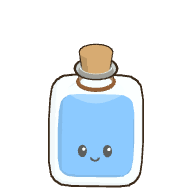
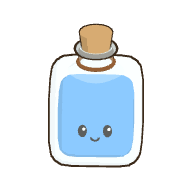
Ferme : volume par defaut regle sur celui de Mathieu, la pause coupe le son, la simu VSA attend l'accord du joueur (fenetre qui fige le jeu), fioles de pot centrees

diff --git a/site/ferme/index.html b/site/ferme/index.html
@@ -115,6 +115,7 @@ button.stock { cursor: pointer; } .stock[hidden] { display: none; } .stock img {
 /* l'ecran de pause (12/10/2026) */
 .ecran-pause { position: fixed; inset: 0; z-index: 30; display: grid; place-items: center; pointer-events: auto; /* (il est dans le HUD, qui laisse passer les clics : sans ca, Reprendre ne repondait pas, retour de Mathieu le 12/10/2026) */ background: rgba(28, 38, 52, .42); backdrop-filter: blur(3px); -webkit-backdrop-filter: blur(3px); }
 .ecran-pause[hidden] { display: none; }
+.simu-pop { z-index: 31; background: rgba(110, 24, 18, .42); } .simu-pop h2 { color: var(--rouge); } .simu-ico { width: 76px; height: 76px; object-fit: contain; display: block; margin: 0 auto; } /* (la simu VSA qui attend ton accord) */
 .carte-pause { text-align: center; background: var(--papier); border: 4px solid var(--bord); border-radius: 22px; box-shadow: 0 7px 0 var(--bord); padding: 18px 28px 20px; width: min(340px, calc(100% - 32px)); }
 .carte-pause svg { width: 44px; height: 44px; color: var(--bord); } .carte-pause h2 { font: 400 1.9rem/1 var(--f-titre); margin: 6px 0 8px; } .carte-pause p { font-weight: 600; font-size: .9rem; line-height: 1.35; margin: 0 0 16px; }
 .bulle { position: absolute; transform: translate(-50%, -100%); white-space: nowrap; background: var(--papier); border: 3px solid var(--bord); border-radius: 12px; padding: 3px 9px; box-shadow: 0 3px 0 var(--bord); font-size: .78rem; pointer-events: none; }
@@ -760,6 +761,7 @@ svg.pc { width: 1.15em; height: 1.15em; vertical-align: -.22em; fill: currentCol
   <div id="bulles"></div>
   <div class="info-survol" id="info-survol" hidden></div>
   <div class="ecran-pause" id="ecran-pause" hidden><div class="carte-pause"><svg viewBox="0 0 24 24" aria-hidden="true"><rect x="5.5" y="4.5" width="4.5" height="15" rx="1.4" fill="currentColor"/><rect x="14" y="4.5" width="4.5" height="15" rx="1.4" fill="currentColor"/></svg><h2>Pause</h2><p>Rien n'attaque : monstres, voleurs et simus VSA t'attendent. Ta ferme, elle, continue de pousser, doucement.</p><button class="btn kamas grand" id="b-reprendre">Reprendre</button></div></div>
+  <div class="ecran-pause simu-pop" id="simu-pop" hidden><div class="carte-pause"><img class="simu-ico" src="assets/icones/voleur.png" alt=""><h2>Simu VSA !</h2><p id="simu-txt"></p><button class="btn kamas grand" id="b-simu">Défendre la ferme</button></div></div>
   <div id="bats-pv"></div>
 </div>
 <div class="accueil" id="accueil"><div class="carte" id="accueil-carte"></div></div>
@@ -3316,7 +3318,7 @@ function majEpouvantail(dt, s) {
 /* ---- le moteur (scratchpad/sons/moteur.js, la page d'ecoute), enferme dans SON ---- */
 const SON = (() => {
 let ac = null, maitre = null, busSons = null, busMusique = null, BRUIT = null, REVERB = null;
-const BASE_SONS = 0.42, BASE_MUSIQUE = 0.07; /* (les volumes de depart, a 50 % et 35 % des curseurs : doux pour qui arrive sans rien regler) */
+const BASE_SONS = 0.037, BASE_MUSIQUE = 0.0194; /* (le volume de depart, au milieu des curseurs : le reglage de Mathieu du 13/10/2026, « je l'ai regle comme sur mon screen, mets-le comme ca par defaut » ; mesure sur sa capture, environ 9 % puis 28 % des anciens niveaux de depart) */
 function init(ctx) {
   if (ac === ctx) return; ac = ctx; maitre = ac.createGain(); maitre.gain.value = 1;
   const comp = ac.createDynamicsCompressor(); comp.threshold.value = -12; comp.knee.value = 8; comp.ratio.value = 4; comp.attack.value = 0.003; comp.release.value = 0.2;
@@ -3328,7 +3330,7 @@ function init(ctx) {
   for (let c = 0; c < 2; c++) { const x = ir.getChannelData(c); for (let i = 0; i < m; i++) x[i] = (Math.random() * 2 - 1) * Math.pow(1 - i / m, 2.6); }
   REVERB = ac.createConvolver(); REVERB.buffer = ir; const retour = ac.createGain(); retour.gain.value = 0.35; REVERB.connect(retour); retour.connect(busMusique);
 }
-function volumes(vs, vm) { if (!ac) return; busSons.gain.setTargetAtTime(BASE_SONS * vs / 50, ac.currentTime, 0.05); busMusique.gain.setTargetAtTime(BASE_MUSIQUE * vm / 35, ac.currentTime, 0.05); }
+function volumes(vs, vm) { if (!ac) return; busSons.gain.setTargetAtTime(BASE_SONS * Math.pow(vs / 50, 3), ac.currentTime, 0.05); busMusique.gain.setTargetAtTime(BASE_MUSIQUE * Math.pow(vm / 50, 3), ac.currentTime, 0.05); } /* (en cube : le curseur est fin vers le bas, et va jusqu'a 8 fois plus fort a 100 %) */
 /* ---------- les briques ---------- */
 const G = (v, dest) => { const g = ac.createGain(); g.gain.value = v; if (dest) g.connect(dest); return g; };
 const F = (type, f, q, dest) => { const b = ac.createBiquadFilter(); b.type = type; b.frequency.value = f; if (q != null) b.Q.value = q; if (dest) b.connect(dest); return b; };
@@ -3573,7 +3575,7 @@ let audio = null;
 const lireReglage = (k, d) => { try { const v = localStorage.getItem(k); return v == null ? d : v; } catch (e) { return d; } };
 const ecrireReglage = (k, v) => { try { localStorage.setItem(k, String(v)); } catch (e) { /* rien */ } };
 const sonActif = () => lireReglage('ferme-son', 'oui') !== 'non';
-const volSons = () => borne(+lireReglage('ferme-vol-sons', 50) || 0, 0, 100), volMusique = () => borne(+lireReglage('ferme-vol-musique', 35) || 0, 0, 100), musiqueChoisie = () => lireReglage('ferme-musique', 'pre');
+const volSons = () => borne(+lireReglage('ferme-vol-sons2', 50) || 0, 0, 100), volMusique = () => borne(+lireReglage('ferme-vol-musique2', 50) || 0, 0, 100), /* (cles neuves : les anciens reglages ne valent plus avec la nouvelle echelle) */ musiqueChoisie = () => lireReglage('ferme-musique', 'pre');
 const MUSIQUES_JEU = [['pre', 'Matin au pré', 'Guitare pincée et nappe lointaine'], ['boite', 'La boîte à musique', 'Une berceuse à trois temps'], ['lofi', 'Le lofi d\'Incarnam', 'Piano électrique, balais et vinyle'], ['brise', 'Brise de la ferme', 'Le vent et les oiseaux, sans musique'], ['aucune', 'Pas de musique', 'Seulement les sons']];
 function allumerAudio() { if (window.silence) return false; try { if (!audio) audio = new (window.AudioContext || window.webkitAudioContext)(); SON.init(audio); SON.volumes(volSons(), volMusique()); return true; } catch (e) { return false; } }
 function majMusique() { /* la musique choisie, si le son est actif (jamais avant le premier geste du joueur : les navigateurs l'interdisent) */
@@ -3581,15 +3583,16 @@ function majMusique() { /* la musique choisie, si le son est actif (jamais avant
   if (!sonActif() || m === 'aucune' || !SON.SONS) { SON.arreter(); return; }
   if (SON.enCours() !== m) SON.musique(m);
 }
+const pauseEcran = () => enPause && !$('ecran-pause').hidden; /* (« quand on met pause, ca coupe la musique etc », Mathieu, 13/10/2026 : l'ecran de pause, pas les lecons de Pepito) */
 function deverrouillerSon() { /* au premier geste (et apres une interruption), on allume le son avec un son vide : c'est ce qu'exigent iPad et Android ; puis la musique */
-  try { if (!allumerAudio()) return; if (audio.state !== 'running') { audio.resume(); const b = audio.createBuffer(1, 1, 22050), src = audio.createBufferSource(); src.buffer = b; src.connect(audio.destination); src.start(0); } majMusique(); } catch (e) { /* rien */ }
+  try { if (pauseEcran() || !allumerAudio()) return; if (audio.state !== 'running') { audio.resume(); const b = audio.createBuffer(1, 1, 22050), src = audio.createBufferSource(); src.buffer = b; src.connect(audio.destination); src.start(0); } majMusique(); } catch (e) { /* rien */ }
 }
 ['pointerdown', 'touchend', 'keydown'].forEach((t) => addEventListener(t, deverrouillerSon, { capture: true, passive: true }));
-document.addEventListener('input', (e) => { const id = e.target && e.target.id; if (id !== 'vol-sons' && id !== 'vol-musique') return; ecrireReglage(id === 'vol-sons' ? 'ferme-vol-sons' : 'ferme-vol-musique', e.target.value); if (allumerAudio()) SON.volumes(volSons(), volMusique()); });
+document.addEventListener('input', (e) => { const id = e.target && e.target.id; if (id !== 'vol-sons' && id !== 'vol-musique') return; ecrireReglage(id === 'vol-sons' ? 'ferme-vol-sons2' : 'ferme-vol-musique2', e.target.value); if (allumerAudio()) SON.volumes(volSons(), volMusique()); });
 document.addEventListener('change', (e) => { if (e.target && e.target.id === 'vol-sons') { son.der = {}; son('kamas'); } }); /* (un son pour entendre le nouveau volume) */
-document.addEventListener('visibilitychange', () => { if (!audio) return; try { if (document.hidden) audio.suspend(); else if (sonActif()) audio.resume(); } catch (e) { /* rien */ } });
+document.addEventListener('visibilitychange', () => { if (!audio) return; try { if (document.hidden) audio.suspend(); else if (sonActif() && !pauseEcran()) audio.resume(); } catch (e) { /* rien */ } });
 function son(nom, variante, db) {
-  if (window.silence || !sonActif()) return;
+  if (window.silence || !sonActif() || pauseEcran()) return;
   const t = performance.now(); son.der = son.der || {}; if (t - (son.der[nom] || 0) < 120) return; son.der[nom] = t; /* jamais le meme son en rafale */
   if (!allumerAudio()) return; if (audio.state === 'suspended') audio.resume(); SON.jouer(nom, variante, db);
 }
@@ -3805,7 +3808,7 @@ function ouvrirPots() {
   const tete = '<div class="vie-alerte' + (pc < 40 ? ' bas' : '') + '"><div><b>' + (plein ? 'Ta vie est pleine' : 'Ta vie : ' + pc + ' %') + '</b><div class="pvb"><i style="width:' + pc + '%"></i></div><small>' + Math.floor(pv) + ' / ' + max + ' PV. ' + seule + (S_.menthe ? ' La Menthe est bue : elle te soignera pendant la prochaine vague.' : '') + (S_.citron ? ' Le Citron est bu : tu courras plus vite pendant la prochaine vague.' : '') + '</small></div></div>';
   const types = POTS_HDV.concat(Object.keys(POTS).filter((t) => POTS[t].geliere && ((S_.pots[t] || 0) > 0 || niv('geliere'))));
   const lignes = types.map((t) => { const n = S_.pots[t] || 0, non = (plein && !POTS[t].menthe && !POTS[t].citron) || (POTS[t].menthe && S_.menthe) || (POTS[t].citron && S_.citron);
-    return '<div class="art' + (n ? '' : ' pas-eu') + '">' + ico('pot-' + t) + '<div><b>' + POTS[t].nom + ' ×' + n + '</b><div class="puces"><span class="puce bonne">' + POTS[t].effet + '</span></div><div class="desc">' + POTS[t].desc + '</div></div><div class="act">' +
+    return '<div class="art' + (n ? '' : ' pas-eu') + '">' + ico('pot-' + t) + '<div><b>' + POTS[t].nom + ' ×' + n + '</b><div class="puces"><span class="puce bonne">' + BREF_POT[t] + '</span></div><div class="desc">' + POTS[t].desc + '</div></div><div class="act">' +
       (n ? '<button class="btn kamas" data-boire="' + t + '"' + (non ? ' disabled' : '') + '>Boire</button>' : POTS[t].geliere ? '<button class="btn discret" data-geliere>Gelière</button>' : '<button class="btn discret" data-hdv-cat="gelees">Acheter</button>') + '</div></div>'; }).join('');
   ouvrirModale('pots', entete('Pots de gelée') + tete + lignes + '<div style="display:flex;justify-content:flex-end;gap:8px;flex-wrap:wrap;margin-top:10px">' + (niv('geliere') ? '<button class="btn discret" data-geliere>Ta Gelière</button>' : '') + '<button class="btn kamas" data-hdv-cat="gelees">Acheter des pots à l\'HDV</button></div>');
 }
@@ -3939,9 +3942,22 @@ const CADENCE_RAID = 480 * MIN, ANNONCE_RAID = 30000; /* un raid toutes les 8 h 
 let derniereAction = Date.now(); ['pointerdown', 'keydown', 'wheel', 'touchstart'].forEach((ev) => addEventListener(ev, () => { derniereAction = Date.now(); }, { passive: true }));
 const joueurPresent = () => Date.now() - derniereAction < 180000 && !document.hidden && !auCasino; /* au Casino : pas de raid */
 let raidAnnonce = null;
-function annoncerRaid() {
+const tailleSimu = () => { const f = forceVoleur(), nb = 4 + Math.floor(Math.min(f, 40) / 5) + (f >= 25 ? 1 : 0) + (f >= 40 ? 1 : 0), montes = f >= 2 ? Math.min(Math.ceil(nb / 2), 1 + Math.floor((f - 2) / 5)) : 0; return { f, nb, montes }; }; /* plus VSA se renforce, plus ils sont nombreux (14 au plus) et montes (la moitie au plus) ; « les raids VSA, ameliore un peu » (Mathieu, 12/10/2026) : en fin de partie l'arbalete et les tours les arretaient presque tous, ils se renforcent a partir de la vague 26 */
+/* LA SIMU VSA ACCEPTEE (13/10/2026, idee de Moonsbir, approuvee par UnMortVivant, notee par Mathieu : « mets juste un pop-up qui te bloque le jeu tant que tu
+   as pas accepte, et faut l'accepter pour declencher l'attaque ») : la simu ne tombe plus d'elle-meme ; le jeu se fige sur une fenetre, et c'est le joueur qui
+   lance les 30 s de preparation. Il ne se fait jamais piller sans le savoir (et toujours rien s'il n'a pas touche au jeu depuis 3 min). */
+let simuEnAttente = false;
+function proposerSimu() {
+  if (simuEnAttente || raidAnnonce || combat || enAccueil || enPause) return;
+  const { nb, montes } = tailleSimu(); simuEnAttente = true;
+  $('simu-txt').textContent = nb + ' voleurs de VSA' + (montes ? ', dont ' + montes + ' à dos de Dragodinde,' : '') + ' veulent piller ta grange. Le jeu attend ton accord : quand tu acceptes, ils arrivent 30 s plus tard. Recharge ton arbalète !';
+  if (visee) annulerVisee(); fermerModale(); mettrePause(true, true); $('simu-pop').hidden = false; son.der = {}; son('raid');
+}
+function accepterSimu() { if (!simuEnAttente) return; simuEnAttente = false; $('simu-pop').hidden = true; mettrePause(false); annoncerRaid(true); }
+function annoncerRaid(muet) {
   if (raidAnnonce || combat || enAccueil) return;
-  const f = forceVoleur(), nb = 4 + Math.floor(Math.min(f, 40) / 5) + (f >= 25 ? 1 : 0) + (f >= 40 ? 1 : 0), montes = f >= 2 ? Math.min(Math.ceil(nb / 2), 1 + Math.floor((f - 2) / 5)) : 0; /* plus VSA se renforce, plus ils sont nombreux (14 au plus) et montes (la moitie au plus) ; « les raids VSA, ameliore un peu » (Mathieu, 12/10/2026) : en fin de partie l'arbalete et les tours les arretaient presque tous, ils se renforcent a partir de la vague 26 */
+  const { f, nb, montes } = tailleSimu();
+  /* (la taille : tailleSimu, plus haut) */
   const B = bordsFerme(), cotes = [[1, 0], [-1, 0], [0, 1], [0, -1]].filter(([di, dj]) => B.some((b) => b.di === di && b.dj === dj)), cote = hasard(cotes.length ? cotes : [[0, 1]]);
   const autres = cotes.filter((c) => c !== cote), cote2 = f >= 8 && autres.length ? hasard(autres) : null; /* a partir de la vague 9 : par deux bords a la fois */
   const marques = new T.Group(); /* le bord par ou ils arriveront, en rouge */
@@ -3951,7 +3967,7 @@ function annoncerRaid() {
     const r = new T.Mesh(new T.PlaneGeometry(S - 0.15, S - 0.15), new T.MeshBasicMaterial({ color: '#d9443a', transparent: true, opacity: 0.4, depthWrite: false })); r.rotation.x = -Math.PI / 2; r.position.set(q.x, q.y + 0.08, q.z); r.renderOrder = 3; marques.add(r);
     const l = new T.Mesh(new T.PlaneGeometry(b.di ? 0.3 : S - 0.15, b.dj ? 0.3 : S - 0.15), new T.MeshBasicMaterial({ color: '#a8231b', transparent: true, opacity: 0.6, depthWrite: false })); l.rotation.x = -Math.PI / 2; l.position.set(q.x + b.di * (S / 2 - 0.23), q.y + 0.09, q.z + b.dj * (S / 2 - 0.23)); l.renderOrder = 3; marques.add(l); });
   scene.add(marques);
-  raidAnnonce = { fin: Date.now() + ANNONCE_RAID, nb, montes, cote, cote2, marques }; son('raid');
+  raidAnnonce = { fin: Date.now() + ANNONCE_RAID, nb, montes, cote, cote2, marques }; if (!muet) son('raid');
   toast('Simu VSA dans 30 s : ' + nb + ' voleurs' + (montes ? ', dont ' + montes + ' à dos de Dragodinde' : '') + ' ! Ils arriveront par ' + (cote2 ? 'les deux bords marqués' : 'le bord marqué') + ' en rouge.', 'alerte');
   majRaidAnnonce();
 }
@@ -6184,7 +6200,7 @@ function tick() {
   if (ch.enclos) rendreEnclosBulles();
   if (ch.sauvage) rendreSauvage();
   if (ch.voleur) lancerVoleur();
-  if (ch.raid && !combat) annoncerRaid();
+  if (ch.raid && !combat) proposerSimu(); /* (une fenetre d'abord : la simu attend l'accord du joueur) */
   if (rechargerSeule()) { rendreGrange(); if (modaleOuverte === 'grange') ouvrirGrange(); } /* l'arbalete se recharge seule a partir du niveau 3 */
   if (raidAnnonce) { if (Date.now() >= raidAnnonce.fin) { if (combat) raidAnnonce.fin = Date.now() + 10000; else lancerRaid(); } else majRaidAnnonce(); }
   if (ch.hdv) { rendreGrange(); if (modaleOuverte === 'hdv') ouvrirHdv(); }
@@ -6198,8 +6214,9 @@ function tick() {
    a la reprise, les dates de la ferme sont decalees de la duree de la pause (reprendreTemps) */
 let enPause = false;
 function mettrePause(oui, sansEcran) { /* (sansEcran : une lecon de Pepito fige le jeu sans afficher l'ecran de pause) */
-  oui = !!oui; if (oui === enPause || (oui && (!S_ || !S_.perso || enAccueil))) return;
+  oui = !!oui; if (oui === enPause || (oui && (!S_ || !S_.perso || enAccueil)) || (!oui && simuEnAttente)) return; /* (la simu en attente : seul son bouton relance le jeu) */
   enPause = oui; $('ecran-pause').hidden = !oui || !!sansEcran;
+  if (audio) { try { if (pauseEcran()) audio.suspend(); else if (sonActif() && !document.hidden) audio.resume(); } catch (e) { /* rien */ } } /* (en pause : plus aucun son, la musique reprend ou elle en etait) */
   if (oui) { if (visee) annulerVisee(); sauver(); } else if (S_) reprendreTemps(Date.now());
 }
 function boucle(t) {
@@ -6549,6 +6566,7 @@ window.addEventListener('error', (e) => { window.__erreur = e.message; });
 addEventListener('keydown', (e) => { if (e.key === 'Escape' && visee) annulerVisee(); });
 $('b-pause').addEventListener('click', (e) => { e.stopPropagation(); mettrePause(true); });
 $('b-reprendre').addEventListener('click', (e) => { e.stopPropagation(); mettrePause(false); });
+$('b-simu').addEventListener('click', (e) => { e.stopPropagation(); accepterSimu(); });
 addEventListener('keydown', (e) => { /* 1 et 2 : le sort et l'ulti pendant un combat (touches du haut du clavier, AZERTY comme QWERTY) */
   if (e.target && /^(INPUT|TEXTAREA|SELECT)$/.test(e.target.tagName)) return; if (!combat || combat.fin || enPause || e.repeat) return;
   if (e.code === 'Digit1' || e.code === 'Numpad1') { e.preventDefault(); lancerSort(); } else if (e.code === 'Digit2' || e.code === 'Numpad2') { e.preventDefault(); lancerUlti(); }
